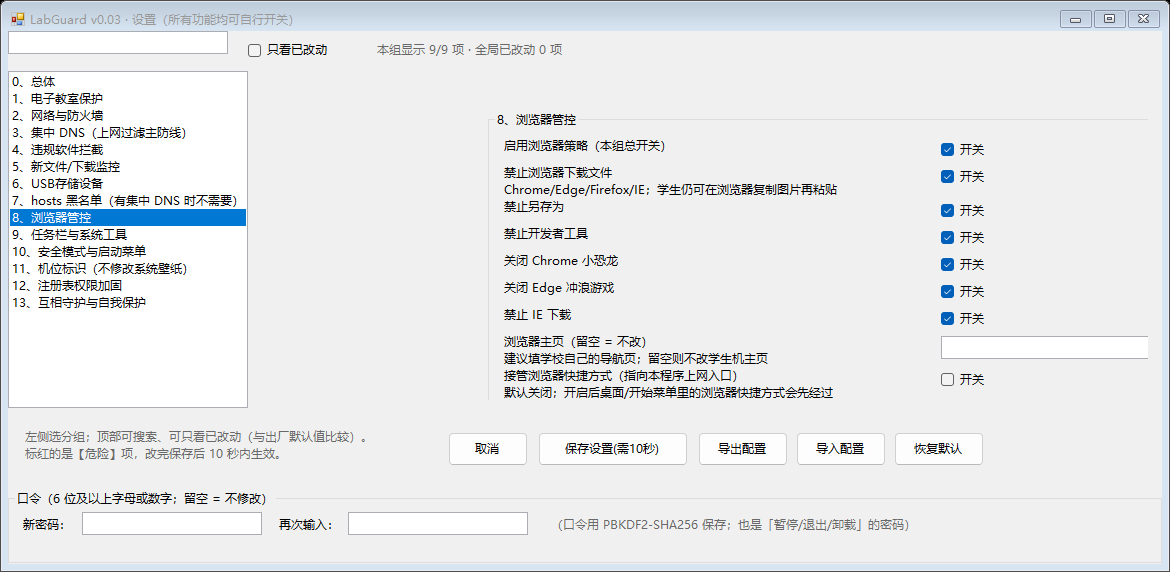
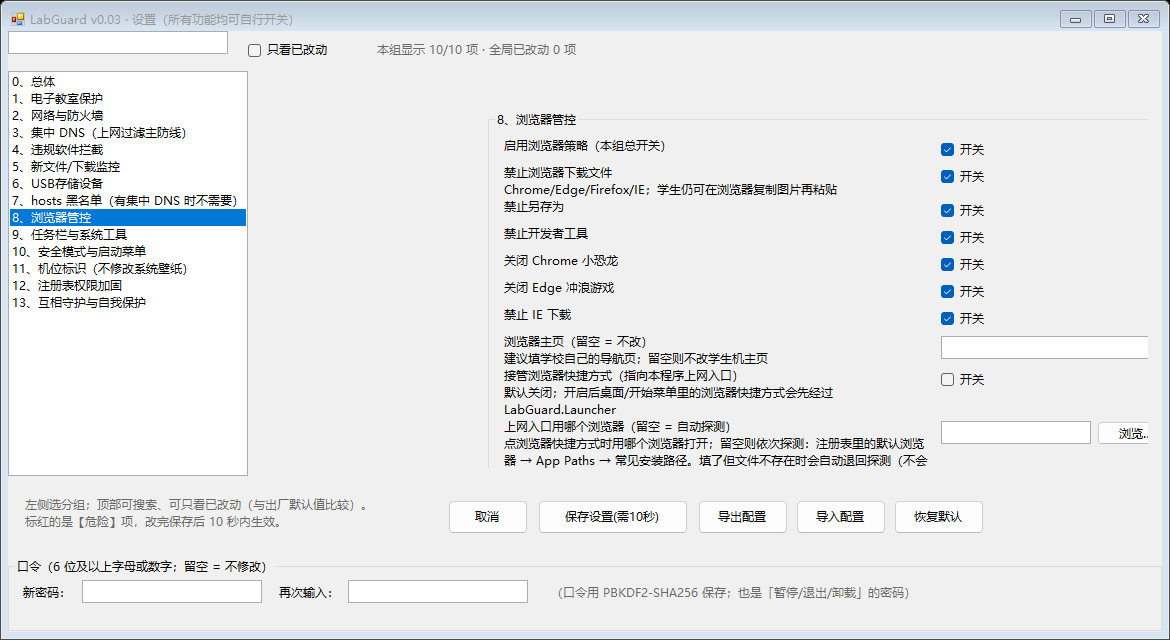
feat(launcher): detect the real browser via registry + let the teacher pin one (P1-c)
The launcher used to try six hard-coded paths only. Now it resolves the browser in order: configured path (new setting Browser.LauncherBrowser, group 8) -> registry default browser (HKLM/HKCU Clients\\StartMenuInternet\\*\\shell\\open\\command, quoted or bare command lines) -> App Paths for chrome.exe/msedge.exe/firefox.exe -> the old hard-coded list. Every step verifies the file exists, so a wrong configured path silently falls back instead of failing to open. The chosen source is written to the log. Config items 95 -> 96; browser panel screenshot and the wizard page title regenerated.

diff --git a/src/LabGuard.Launcher/Program.cs b/src/LabGuard.Launcher/Program.cs
@@ -4,6 +4,7 @@ using System.IO;
 using System.Windows.Forms;
 using LabGuard.Core.Config;
 using LabGuard.Core.Logging;
+using Microsoft.Win32;
 
 namespace LabGuard.Launcher
 {
@@ -26,7 +27,8 @@ namespace LabGuard.Launcher
         [STAThread]
         private static void Main(string[] args)
         {
-            string browser = FindBrowser();
+            GuardConfig config = ConfigStore.Load();
+            string browser = FindBrowser(config.Browser.LauncherBrowser, out string source);
             if (browser == null)
             {
                 MessageBox.Show("本机未找到可用的浏览器，请联系机房管理员。", "机房上网入口",
@@ -34,7 +36,7 @@ namespace LabGuard.Launcher
                 return;
             }
 
-            string homepage = ConfigStore.Load().Browser.Homepage;
+            string homepage = config.Browser.Homepage;
             string arguments = string.IsNullOrWhiteSpace(homepage) ? "" : homepage;
             if (args != null && args.Length > 0 && args[0].StartsWith("http", StringComparison.OrdinalIgnoreCase))
             {
@@ -43,7 +45,7 @@ namespace LabGuard.Launcher
             try
             {
                 Process.Start(new ProcessStartInfo(browser, arguments) { UseShellExecute = false });
-                Log.Info("上网入口启动浏览器：" + browser + " " + arguments);
+                Log.Info("上网入口启动浏览器（来源：" + source + "）：" + browser + " " + arguments);
             }
             catch (Exception ex)
             {
@@ -52,11 +54,103 @@ namespace LabGuard.Launcher
             }
         }
 
-        private static string FindBrowser()
+        /// <summary>
+        /// 找真实浏览器，优先级：设置里指定的路径 → 注册表登记的默认浏览器 →
+        /// App Paths（chrome/msedge/firefox）→ 常见安装路径。
+        /// 每一步都校验文件真实存在，装得再偏也能找到。
+        /// </summary>
+        private static string FindBrowser(string configured, out string source)
         {
+            if (!string.IsNullOrWhiteSpace(configured))
+            {
+                string p = configured.Trim().Trim('"');
+                if (File.Exists(p)) { source = "设置指定"; return p; }
+                Log.Warn("设置里指定的浏览器不存在，改走自动探测：" + p);
+            }
+
+            string fromClients = DefaultBrowserFromClients();
+            if (fromClients != null) { source = "注册表默认浏览器"; return fromClients; }
+
+            foreach (string exe in new[] { "chrome.exe", "msedge.exe", "firefox.exe" })
+            {
+                string ap = AppPaths(exe);
+                if (ap != null) { source = "App Paths/" + exe; return ap; }
+            }
+
             foreach (string c in Candidates)
             {
-                if (File.Exists(c)) return c;
+                if (File.Exists(c)) { source = "常见安装路径"; return c; }
+            }
+            source = "未找到";
+            return null;
+        }
+
+        /// <summary>读"默认浏览器"注册信息（HKLM/HKCU 的 Clients\StartMenuInternet\*），解析出 exe 路径。</summary>
+        private static string DefaultBrowserFromClients()
+        {
+            foreach (bool machine in new[] { false, true })
+            {
+                try
+                {
+                    using (RegistryKey root = machine ? Registry.LocalMachine : Registry.CurrentUser)
+                    using (RegistryKey clients = root?.OpenSubKey(@"SOFTWARE\Clients\StartMenuInternet"))
+                    {
+                        if (clients == null) continue;
+                        foreach (string name in clients.GetSubKeyNames())
+                        {
+                            using (RegistryKey cmd = clients.OpenSubKey(name + @"\shell\open\command"))
+                            {
+                                string path = ExtractExePath(cmd?.GetValue(null) as string);
+                                if (path != null) return path;
+                            }
+                        }
+                    }
+                }
+                catch { }
+            }
+            return null;
+        }
+
+        /// <summary>从命令行里取出 exe 路径：`"C:\...\chrome.exe" -- "%1"` → C:\...\chrome.exe</summary>
+        private static string ExtractExePath(string commandLine)
+        {
+            if (string.IsNullOrWhiteSpace(commandLine)) return null;
+            string s = commandLine.Trim();
+            string path;
+            if (s.StartsWith("\"", StringComparison.Ordinal))
+            {
+                int end = s.IndexOf('"', 1);
+                if (end < 0) return null;
+                path = s.Substring(1, end - 1);
+            }
+            else
+            {
+                int end = s.IndexOf(".exe", StringComparison.OrdinalIgnoreCase);
+                if (end < 0) return null;
+                path = s.Substring(0, end + 4);
+            }
+            path = Environment.ExpandEnvironmentVariables(path.Trim());
+            return File.Exists(path) ? path : null;
+        }
+
+        /// <summary>读 App Paths（HKLM/HKCU）里登记的浏览器路径。</summary>
+        private static string AppPaths(string exeName)
+        {
+            foreach (bool machine in new[] { true, false })
+            {
+                try
+                {
+                    using (RegistryKey root = machine ? Registry.LocalMachine : Registry.CurrentUser)
+                    using (RegistryKey k = root?.OpenSubKey(
+                        @"SOFTWARE\Microsoft\Windows\CurrentVersion\App Paths\" + exeName))
+                    {
+                        string p = k?.GetValue(null) as string;
+                        if (string.IsNullOrWhiteSpace(p)) continue;
+                        p = Environment.ExpandEnvironmentVariables(p.Trim().Trim('"'));
+                        if (File.Exists(p)) return p;
+                    }
+                }
+                catch { }
             }
             return null;
         }

diff --git a/src/LabGuard.Core/Settings/SettingsCatalog.cs b/src/LabGuard.Core/Settings/SettingsCatalog.cs
@@ -259,6 +259,10 @@ namespace LabGuard.Core.Settings
             list.Add(Bool("8、浏览器管控", "Browser.HijackShortcuts", "接管浏览器快捷方式（指向本程序上网入口）",
                 "默认关闭；开启后桌面/开始菜单里的浏览器快捷方式会先经过 LabGuard.Launcher",
                 c => c.Browser.HijackShortcuts, (c, v) => c.Browser.HijackShortcuts = (bool)v));
+            list.Add(Path("8、浏览器管控", "Browser.LauncherBrowser", "上网入口用哪个浏览器（留空 = 自动探测）",
+                "点浏览器快捷方式时用哪个浏览器打开；留空则依次探测：注册表里的默认浏览器 → App Paths → 常见安装路径。" +
+                "填了但文件不存在时会自动退回探测（不会因为路径写错就打不开）。",
+                "可执行文件 |*.exe", c => c.Browser.LauncherBrowser, (c, v) => c.Browser.LauncherBrowser = (string)v));
 
             // ============================================================ 9 任务栏/系统工具
             list.Add(Bool("9、任务栏与系统工具", "Shell.Enabled", "启用本组策略（总开关）", null,

diff --git a/src/LabGuard.SelfTest/Program.cs b/src/LabGuard.SelfTest/Program.cs
@@ -180,6 +180,9 @@ namespace LabGuard.SelfTest
             Check("默认加固课堂软件的键（频道/自动登录参数）",
                 aclCfg.Keys.Contains(@"HKEY_LOCAL_MACHINE\SOFTWARE\TopDomain\e-Learning Class\Student"));
             Check("「连管理员也锁」默认关闭", !aclCfg.DenyAdminsWrite);
+            Check("上网入口浏览器默认留空（= 自动探测注册表/App Paths/常见路径）",
+                new GuardConfig().Browser.LauncherBrowser == "");
+            Check("危险操作确认默认等 10 秒（0 = 不等）", new GuardConfig().ConfirmDelaySeconds == 10);
             foreach (string k in aclCfg.Keys)
             {
                 Check("键路径写法合法：" + k,

diff --git a/src/LabGuard.Core/Config/GuardConfig.cs b/src/LabGuard.Core/Config/GuardConfig.cs
@@ -224,6 +224,11 @@ namespace LabGuard.Core.Config
         public string Homepage { get; set; } = "";
         /// <summary>用 LabGuard.Launcher 替换浏览器快捷方式（默认关；开启后点浏览器会先经过本程序）。</summary>
         public bool HijackShortcuts { get; set; } = false;
+        /// <summary>
+        /// 上网入口用哪个浏览器（完整 exe 路径）；留空 = 自动探测
+        /// （注册表里的默认浏览器 → App Paths → 常见安装路径）。
+        /// </summary>
+        public string LauncherBrowser { get; set; } = "";
     }
 
     public class ShellSettings

diff --git a/src/LabGuard.Installer/InstallerForm.cs b/src/LabGuard.Installer/InstallerForm.cs
@@ -258,7 +258,7 @@ namespace LabGuard.Installer
 
         private TabPage TabOptions()
         {
-            var page = new TabPage("5. 功能开关（95 项，可逐项开关）") { Padding = new Padding(10) };
+            var page = new TabPage("5. 功能开关（96 项，可逐项开关）") { Padding = new Padding(10) };
             var top = new Panel { Dock = DockStyle.Top, Height = 76 };
             var lbl = new Label { Text = "先套用一个预设，再按需逐项调整：", Left = 6, Top = 8, Width = 330 };
             _presetBox.Left = 6; _presetBox.Top = 30;

diff --git a/src/LabGuard.Settings/SettingsForm.cs b/src/LabGuard.Settings/SettingsForm.cs
@@ -14,7 +14,7 @@ namespace LabGuard.Settings
 {
     /// <summary>
     /// 设置程序：主体是 <see cref="SettingsPanel"/>（左侧分组导航 + 搜索 + 只看已改动 + 改动计数，
-    /// 内容由 <see cref="LabGuard.Core.Settings.SettingsCatalog"/> 驱动，共 14 组 / 95 项）。
+    /// 内容由 <see cref="LabGuard.Core.Settings.SettingsCatalog"/> 驱动，共 14 组 / 96 项）。
     /// 底部另有口令、导出/导入/恢复默认/保存。
     /// </summary>
     public class SettingsForm : Form

diff --git a/README.md b/README.md
@@ -28,7 +28,7 @@
 |---|---|---|
 | `LabGuard.Service.exe` | 守护服务 | Windows 服务（SYSTEM）：hosts 黑名单、USB 存储禁用、注册表权限加固、安全模式限制、浏览器组策略、新文件监控、守护代理进程 |
 | `LabGuard.Agent.exe` | 托盘交互 | 托盘小助手：课堂软件保护、网络/IP/防火墙守护、违规软件拦截、任务栏与 Win 键策略、互相守护；系统功能菜单（设置/暂停/退出，均需密码） |
-| `LabGuard.Settings.exe` | 配置界面 | 设置程序：密码 + **14 组 / 95 项开关**（左分组导航 + 搜索 + 只看已改动 + 改动计数）+ 导入导出 |
+| `LabGuard.Settings.exe` | 配置界面 | 设置程序：密码 + **14 组 / 96 项开关**（左分组导航 + 搜索 + 只看已改动 + 改动计数）+ 导入导出 |
 | `LabGuard.Uninstall.exe` | 卸载 | 卸载并**逐项还原**系统设置 |
 | `LabGuard.Launcher.exe` | 上网入口（可选） | 按设置里的主页启动学生机上的**真实浏览器**；默认不接管快捷方式，也不冒充任何软件 |
 | `LabGuard.SelfTest.exe` | — | 自检：验证口令/hosts/拦截清单，并用**干跑模式**完整启动-停止引擎（不修改系统） |
@@ -62,7 +62,7 @@
 | 3. 设置密码 | 输两遍；6 位及以上字母数字，弱口令会被拒绝 |
 | 3. **课堂软件** | 点【自动识别】查找极域 / 红蜘蛛 / 锐捷云课堂等学生端；**识别不到就手动填写或浏览选择**（留空也行，运行时会再自动探测） |
 | 4. 设置密码 | 输两遍，6 位以上字母数字 |
-| 5. **功能开关（95 项）** | 左分组导航 + 搜索 + 只看已改动；先套预设（普通PC机房 / 一体机机房 / 只管电子教室 / 全部放开），再逐项勾选；**AdGuard 相关的"集中 DNS"就在这里，不勾就是 A 档** |
+| 5. **功能开关（96 项）** | 左分组导航 + 搜索 + 只看已改动；先套预设（普通PC机房 / 一体机机房 / 只管电子教室 / 全部放开），再逐项勾选；**AdGuard 相关的"集中 DNS"就在这里，不勾就是 A 档** |
 | 5. 安装 | 点【开始安装】→ 实时日志 → 完成后可勾"立即启用监控"，并可一键打开设置复核 |
 
 装完自检（3 分钟）：
@@ -97,9 +97,9 @@ LabGuard-Setup-v0.01.exe --silent --password "你的密码123" [--config presets
 
 > `LabGuard.Settings.exe` 与 `LabGuard.Uninstall.exe` 需要管理员权限（会弹 UAC）；`LabGuard.Agent.exe` 由安装时创建的"最高权限计划任务"拉起。
 
-## 2.2 所有功能都由你自己开关（95 项全覆盖，带搜索与"只看已改动"）
+## 2.2 所有功能都由你自己开关（96 项全覆盖，带搜索与"只看已改动"）
 
-- 配置项共 **95 项**（含"集中 DNS""hosts 黑名单"这类**可选上网管控**），全部在设置程序里可见可改，分成 **14 组**：
+- 配置项共 **96 项**（含"集中 DNS""hosts 黑名单"这类**可选上网管控**），全部在设置程序里可见可改，分成 **14 组**：
   总体 / 电子教室保护 / 网络与防火墙 / 集中 DNS / 违规软件拦截 / 新文件监控 / USB / hosts / 浏览器 /
   任务栏与系统工具 / 安全模式 / 机位标识 / 注册表权限加固 / 互相守护。
 - 面板顶部有**搜索框**（当前分组内按名称/说明过滤）、**「只看已改动」**（与出厂默认值对比）、以及"本组显示 x/y · 全局已改动 N 项"计数；
@@ -107,7 +107,7 @@ LabGuard-Setup-v0.01.exe --silent --password "你的密码123" [--config presets
 - 每个开关 = 一个控件（勾选 / 下拉 / 数字 / 路径 / 多行列表），带中文说明；会造成关机、重启这类后果的项**标红加【危险】**，默认关闭。
 - 支持 **导出配置 / 导入配置**（一个 JSON 拷到所有学生机）、**恢复默认**（保留密码）。
 - 这条不是"承诺"，是**有自检兜底的保证**：
-  - `LabGuard.SelfTest.exe` 的 `[7] 设置项覆盖` 会反射遍历 `GuardConfig`，若某个配置项没有对应开关、或某个开关指向了不存在的字段、或 Get/Set 接错字段 → **直接报 FAIL**（当前：95 项全覆盖、0 隐藏项、93 个开关读写正确）。
+  - `LabGuard.SelfTest.exe` 的 `[7] 设置项覆盖` 会反射遍历 `GuardConfig`，若某个配置项没有对应开关、或某个开关指向了不存在的字段、或 Get/Set 接错字段 → **直接报 FAIL**（当前：96 项全覆盖、0 隐藏项、93 个开关读写正确）。
   - `LabGuard.Settings.exe --selftest-ui` 会真正构建一次界面并统计控件数（不显示窗口），用于确认"每个开关都渲染出来了"。
 
 ## 3. 功能一览（摘要，完整版见 [docs/03](docs/03-功能与开关清单.md)）
@@ -255,7 +255,7 @@ LabGuard.Installer.exe --screenshot D:\shots        :: 安装向导 6 页
 
 <img src="docs/screenshots/wizard-4-password.png" width="820">
 
-**5. 功能开关（95 项，逐项开或关）**
+**5. 功能开关（96 项，逐项开或关）**
 
 <img src="docs/screenshots/wizard-5-switches.png" width="820">
 
@@ -265,7 +265,7 @@ LabGuard.Installer.exe --screenshot D:\shots        :: 安装向导 6 页
 
 </details>
 
-### 8.3 设置程序（14 组 / 95 项开关）
+### 8.3 设置程序（14 组 / 96 项开关）
 
 左侧分组导航（带"已改 N 项"标记）+ 右上搜索 + 只看已改动。**没有任何隐藏开关**：自检会核对每个配置项都能在界面上找到（见第 5 节）。
 

diff --git a/docs/04-机房部署指南.md b/docs/04-机房部署指南.md
@@ -32,7 +32,7 @@
 **首选：一键安装程序（单文件 exe）**
 
 1. 从 [Releases](https://github.com/ikeee/labguard/releases) 下载 **`LabGuard-Setup-v0.01.exe`**（或完整包 `labguard-v0.01.zip`）；
-2. 拷到学生机（U 盘/内网共享/文件服务都行）→ **双击** → 向导：合规确认 → 安装位置 → **课堂软件（自动识别/手动填写）** → 密码 → **功能开关（95 项，可搜索/只看已改动）** → 安装；见 `README.md` 第 2 节；
+2. 拷到学生机（U 盘/内网共享/文件服务都行）→ **双击** → 向导：合规确认 → 安装位置 → **课堂软件（自动识别/手动填写）** → 密码 → **功能开关（96 项，可搜索/只看已改动）** → 安装；见 `README.md` 第 2 节；
 3. 内网自取也可以：把 exe 放到共享（如 `\\fileserver\share\`），学生机双击运行即可。
 
 其它来源（按需）：完整包 `labguard-v0.01.zip` 里的 `dist\` 是"脚本部署版"；从源码构建用 `scripts\build.ps1 -SelfTest` + `scripts\build-installer.ps1`。

diff --git a/docs/03-功能与开关清单.md b/docs/03-功能与开关清单.md
@@ -7,7 +7,7 @@
 
 # 功能与开关清单
 
-> 每个功能都对应设置程序里的一个开关（共 **95 项 / 14 组**），并且由自检强制"无隐藏开关"：
+> 每个功能都对应设置程序里的一个开关（共 **96 项 / 14 组**），并且由自检强制"无隐藏开关"：
 > `LabGuard.SelfTest.exe` 的 `[7] 设置项覆盖` 会反射核对"配置项集合 == 界面开关集合"，并做读写往返校验。
 
 ## 1. 功能总览
